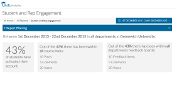
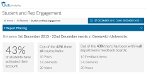
Nuclibook rough content

diff --git a/assets/projects/css/projects.scss b/assets/projects/css/projects.scss
@@ -7,7 +7,7 @@
 		margin: 8px;
 		padding: 8px;
 		border: 1px solid $lineColour;
-		border-radius: 4px;
+		border-radius: 5px;
 
 		p.title {
 			font-size: 1.4em;
